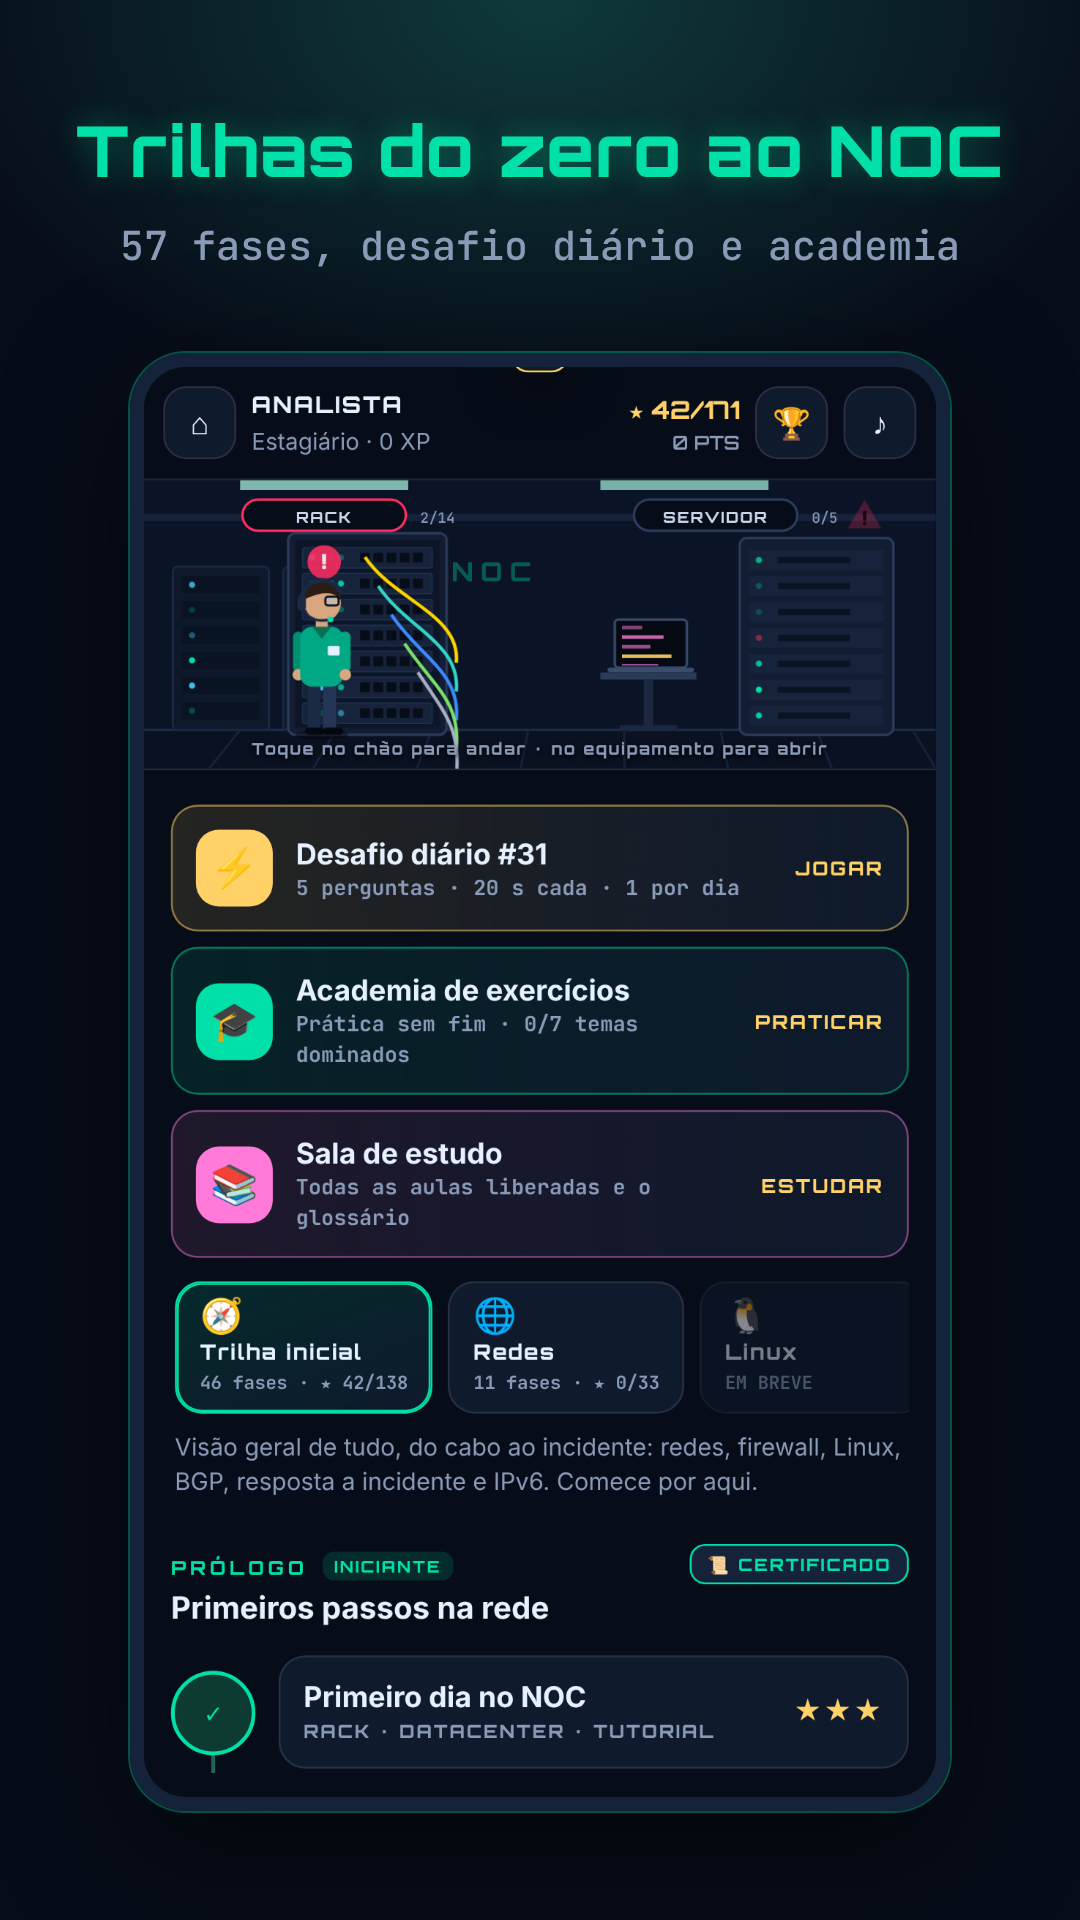
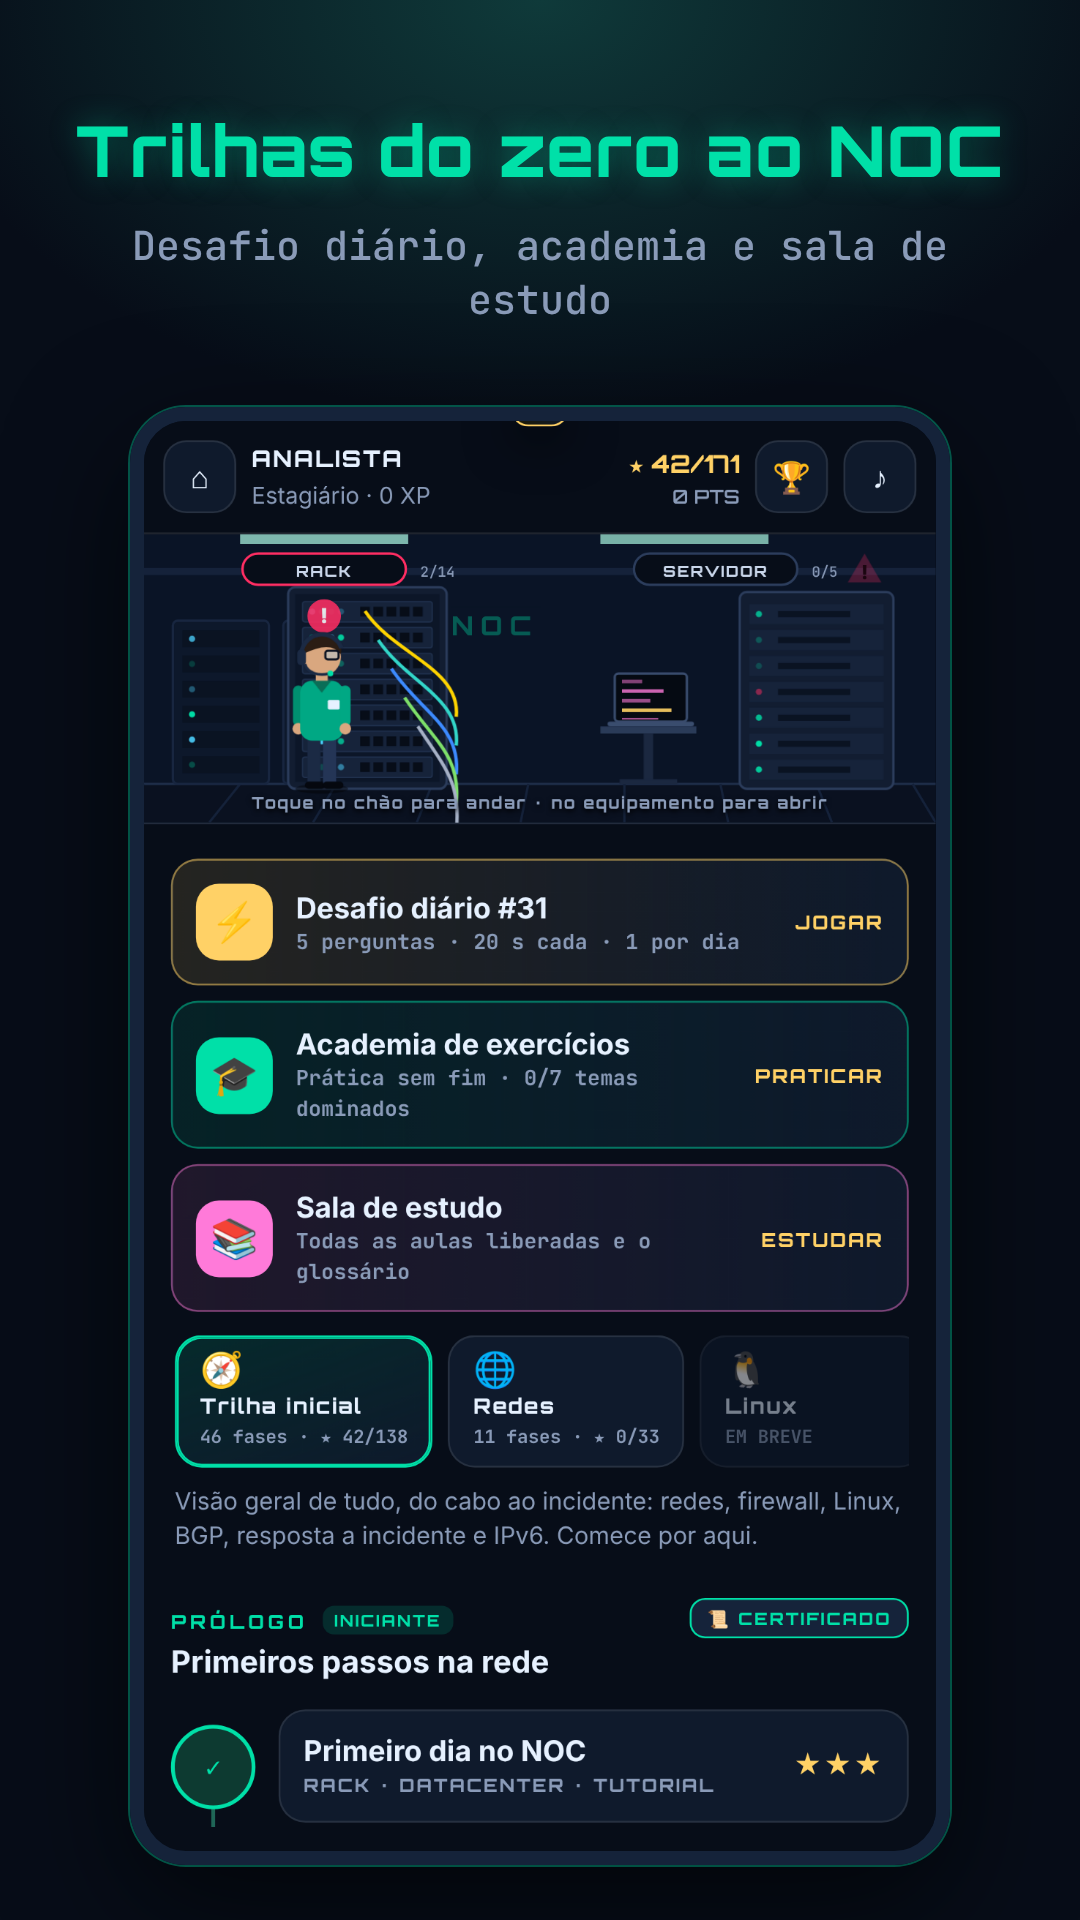
Loja: textos e captura sem número fixo de fases
Claude-Session: https://claude.ai/code/session_01G54dFQsx14zsEtMpdfufNU

Changed region(s): [[0.1222, 0.0938, 0.8861, 1.0], [0.7028, 0.5625, 0.8556, 0.6562]]

diff --git a/app-android/loja/LOJA.md b/app-android/loja/LOJA.md
@@ -120,7 +120,7 @@ Feito por um analista de redes brasileiro para quem quer entrar ou crescer na á
 ## 6 - Notas da versão para o teste fechado (até 500 caracteres)
 
 Primeira versão de teste do NOC no Android.
-- Jogo completo offline, com 57 fases em trilhas
+- Jogo completo offline, com todas as fases em trilhas
 - Desafio diário, academia de exercícios e treino dos seus erros
 - Use o botão ⚑ ERRO? se encontrar algo errado
 Obrigado por testar! Mantenha o app instalado por 14 dias e jogue quando puder.
